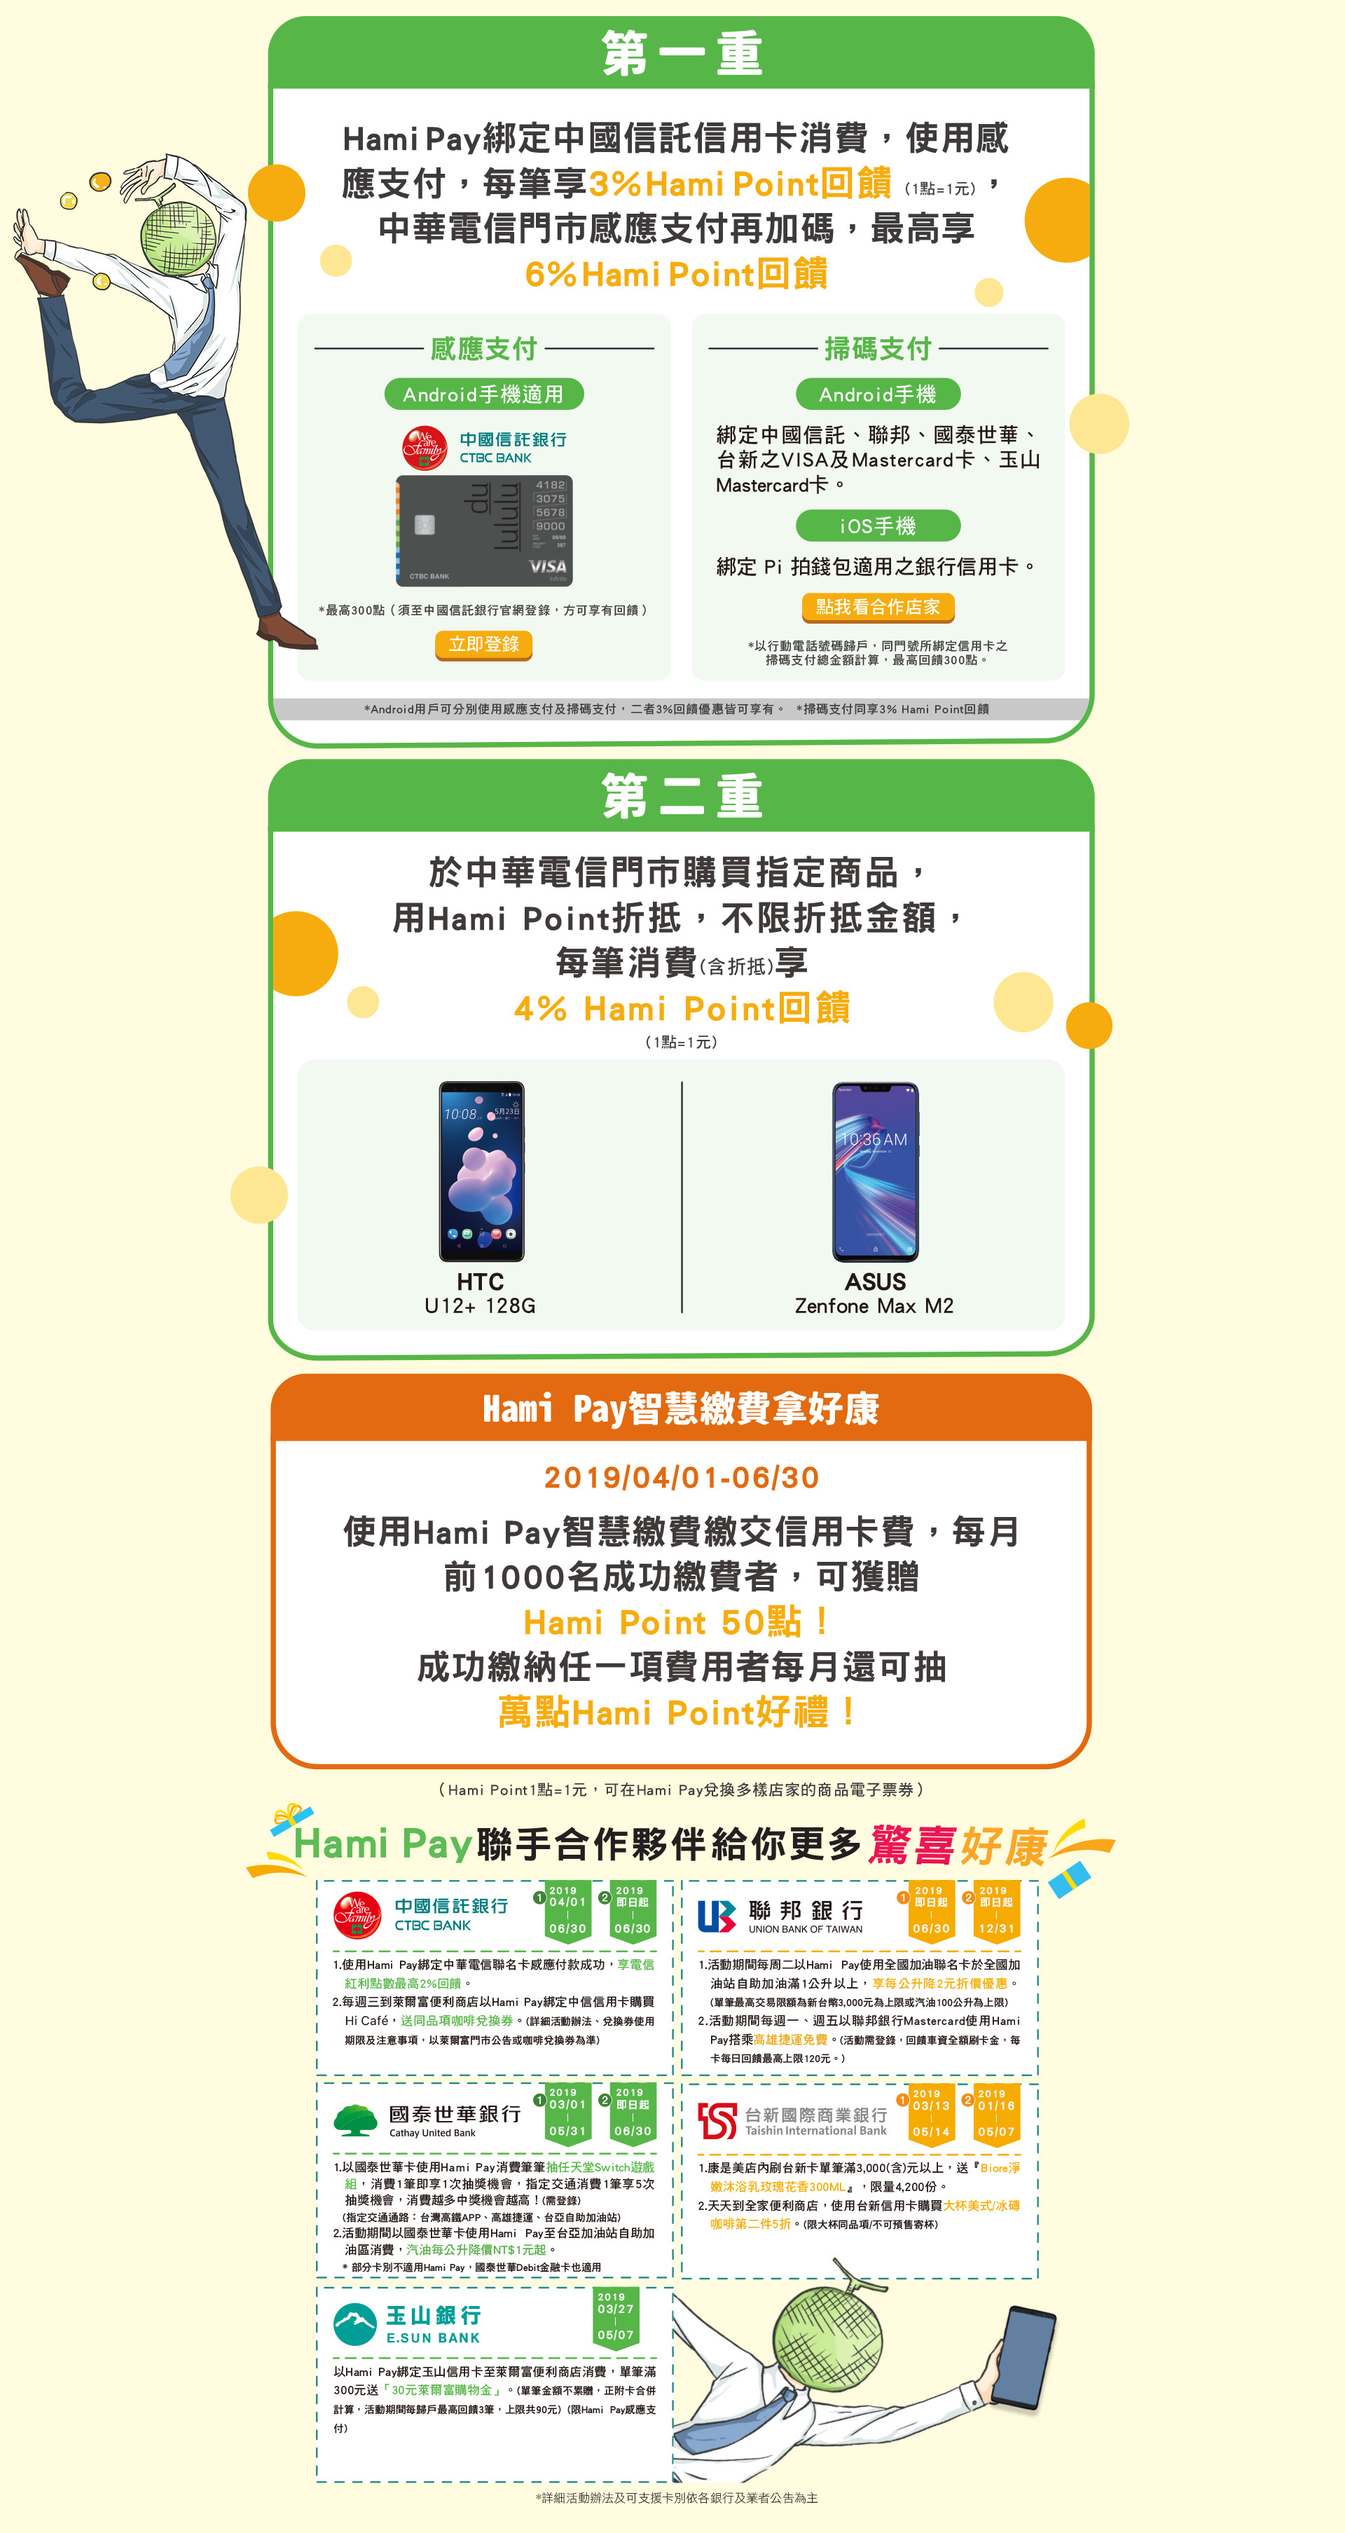
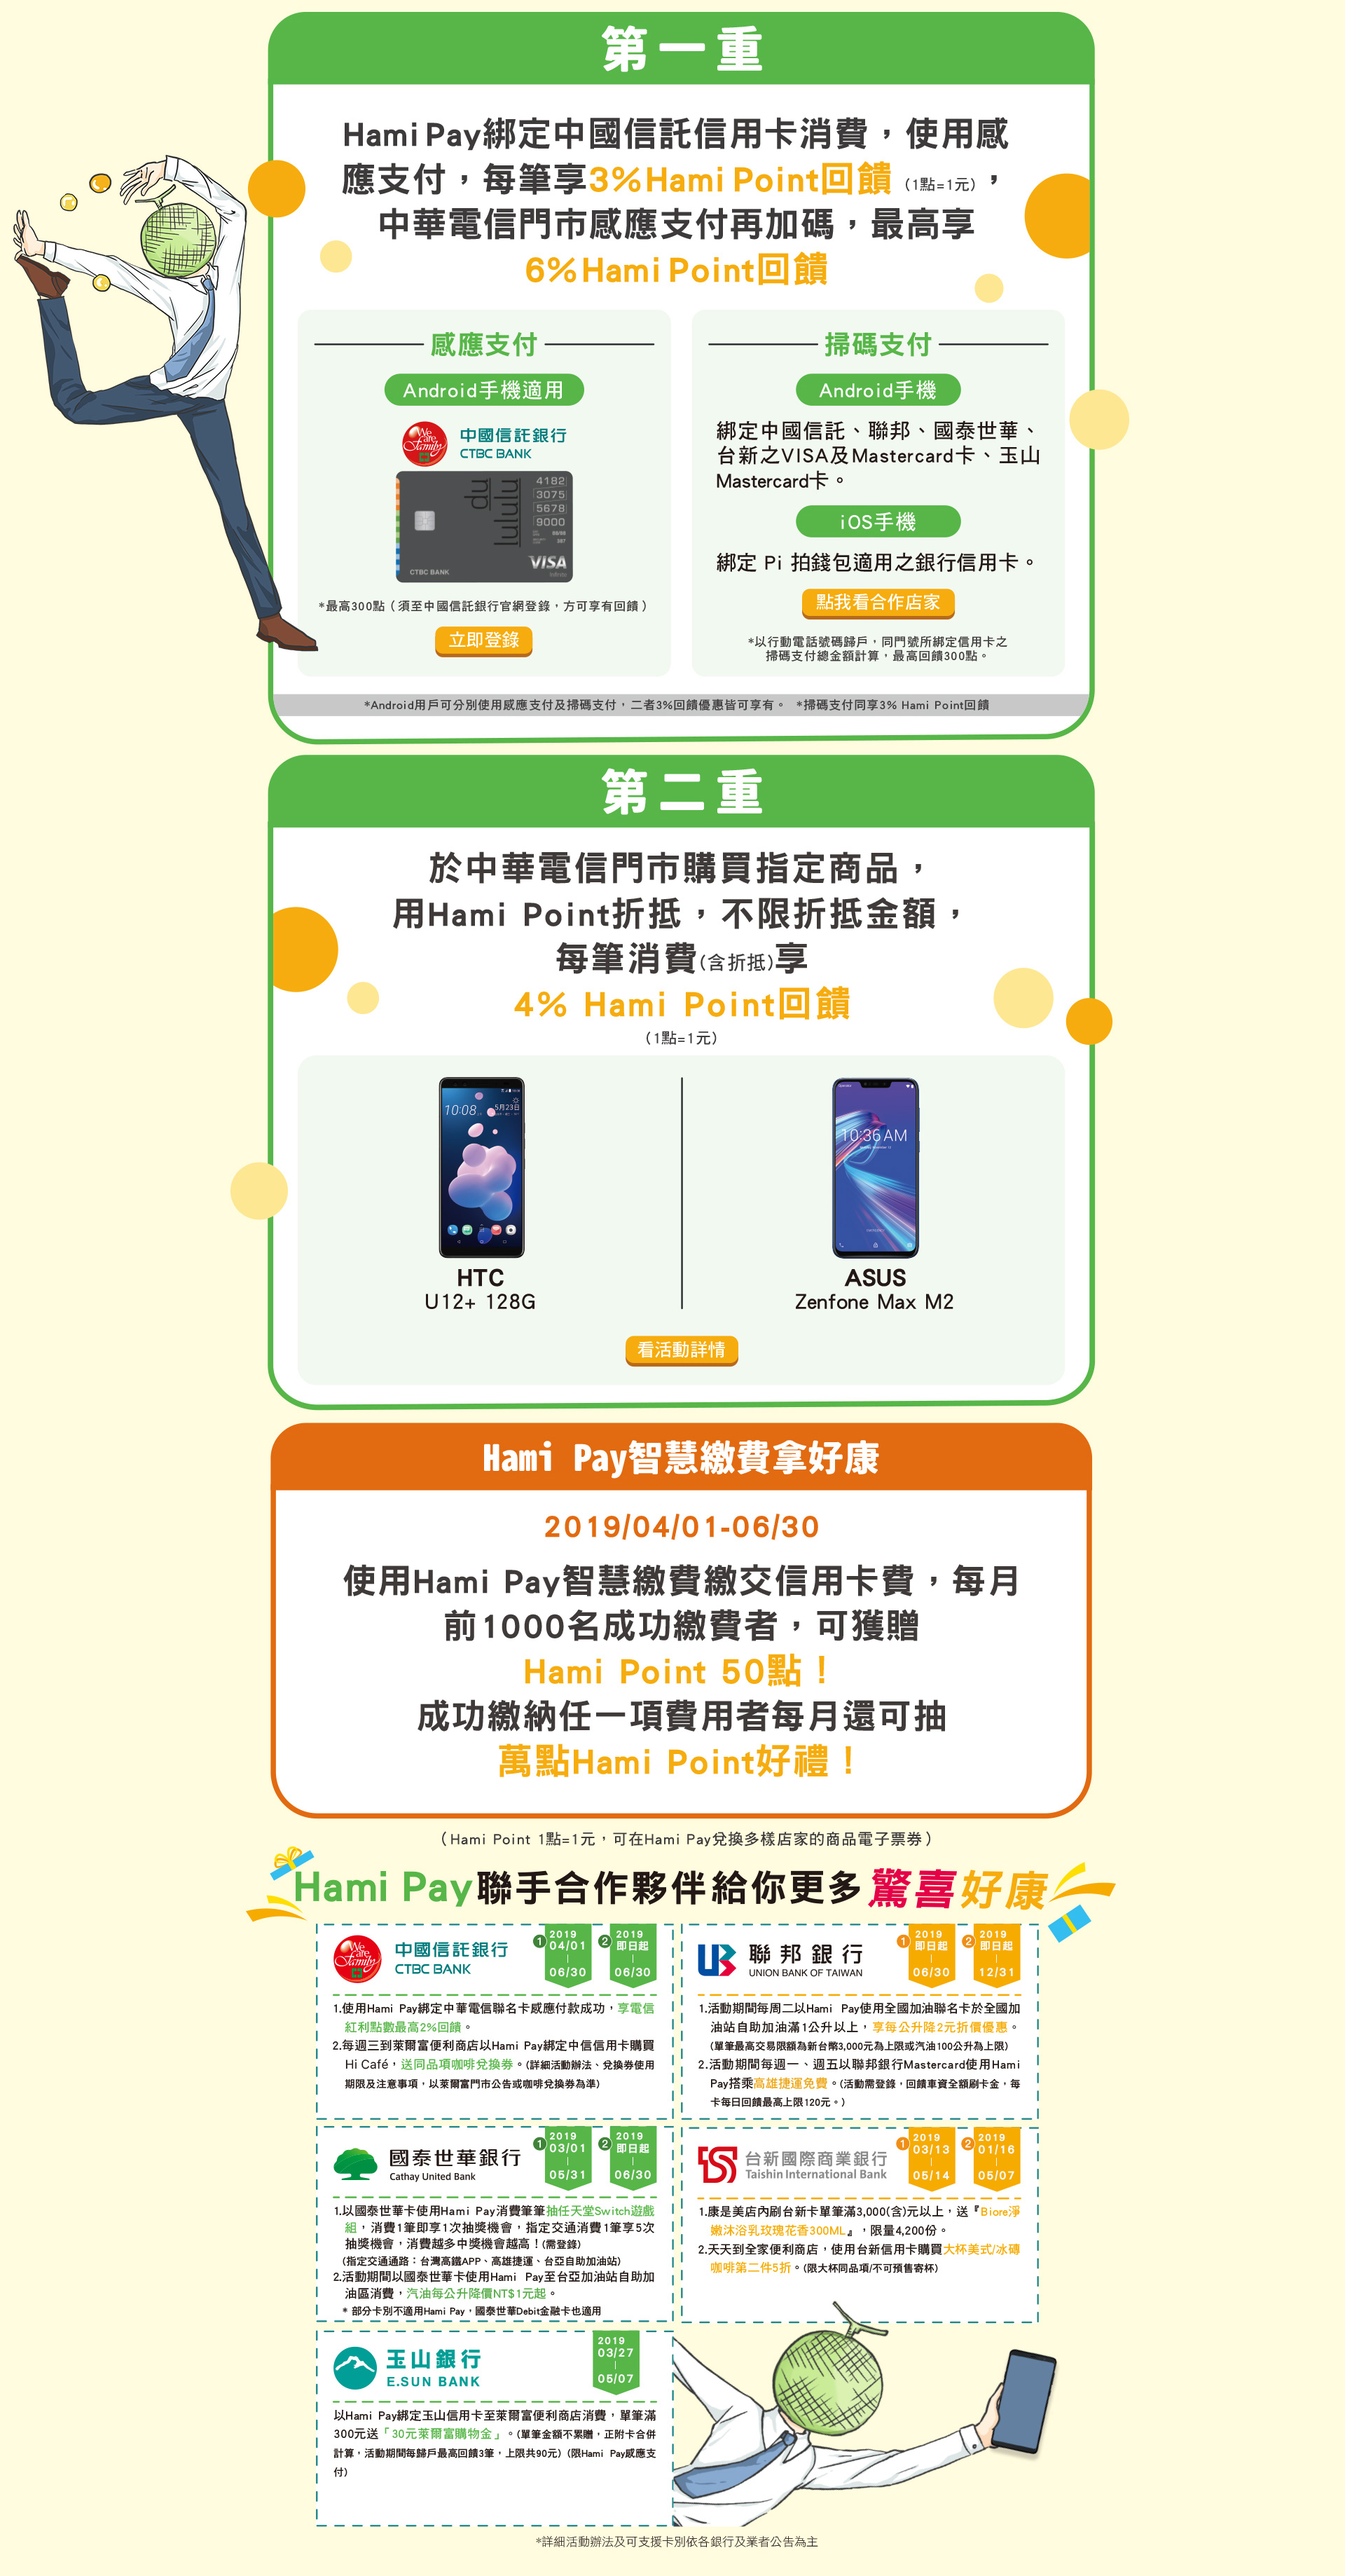
Hamipay
新增PC與手機按鈕與連結

diff --git a/demo/HamiPay/index_m.html b/demo/HamiPay/index_m.html
@@ -74,8 +74,9 @@
 		</ul>		
 		<img id="Menu-special_offers" src="images/section_m_03a.jpg" usemap="#image-map001">
 		<map name="image-map001">
-		    <area onclick="gtag('event', 'click ',{'event_category':'Landing','event_label': 'Sale-CTBC'  });"  href="https://www.ctbcbank.com/CTCBPortalWeb/toPage?id=TW_RB_MK_creditcard_055001" coords="262,622,378,663" shape="rect">
-		    <area onclick="gtag('event', 'click ',{'event_category':'Landing','event_label': 'Sale-Pi'  });" href="https://www.piapp.com.tw/faq/pipoint-partners" coords="229,1023,411,1059" shape="rect">
+		    <area onclick="gtag('event', 'click ',{'event_category':'Landing','event_label': 'Sale-CTBC'  });"  href="https://www.ctbcbank.com/CTCBPortalWeb/toPage?id=TW_RB_MK_creditcard_055001" coords="262,606,379,642" shape="rect">
+		    <area onclick="gtag('event', 'click ',{'event_category':'Landing','event_label': 'Sale-Pi'  });" href="https://www.piapp.com.tw/faq/pipoint-partners" coords="230,1007,411,1041" shape="rect">
+		    <area onclick="gtag('event', 'click ',{'event_category':'Landing','event_label': 'special_offers_2'  });" href="https://event.hamipoint.cht.com.tw/store/?utm_source=hpay&utm_medium=button&utm_campaign=6reward" coords="258,1607,391,1643" shape="rect">
 		</map>
 
 		<img id="Menu-intro" src="images/section_m_01.jpg" usemap="#image-map002">

diff --git a/demo/HamiPay/index.html b/demo/HamiPay/index.html
@@ -111,6 +111,7 @@ gtag('config', 'UA-112390676-5');
 			<map name="image-map">
 			    <area onclick="gtag('event', 'click ',{'event_category':'Landing','event_label': 'Sale-CTBC'  });" href="https://www.ctbcbank.com/CTCBPortalWeb/toPage?id=TW_RB_MK_creditcard_055001" coords="618,897,761,943" shape="rect">
 			    <area onclick="gtag('event', 'click ',{'event_category':'Landing','event_label': 'Sale-Pi'  });" href="https://www.piapp.com.tw/faq/pipoint-partners" coords="1147,843,1366,891" shape="rect">
+			    <area onclick="gtag('event', 'click ',{'event_category':'Landing','event_label': 'special_offers_2'  });" href="https://event.hamipoint.cht.com.tw/store/?utm_source=hpay&amp;utm_medium=button&amp;utm_campaign=6reward" coords="890,1905,1059,1953" shape="rect">
 			</map>
 
 		</div>
